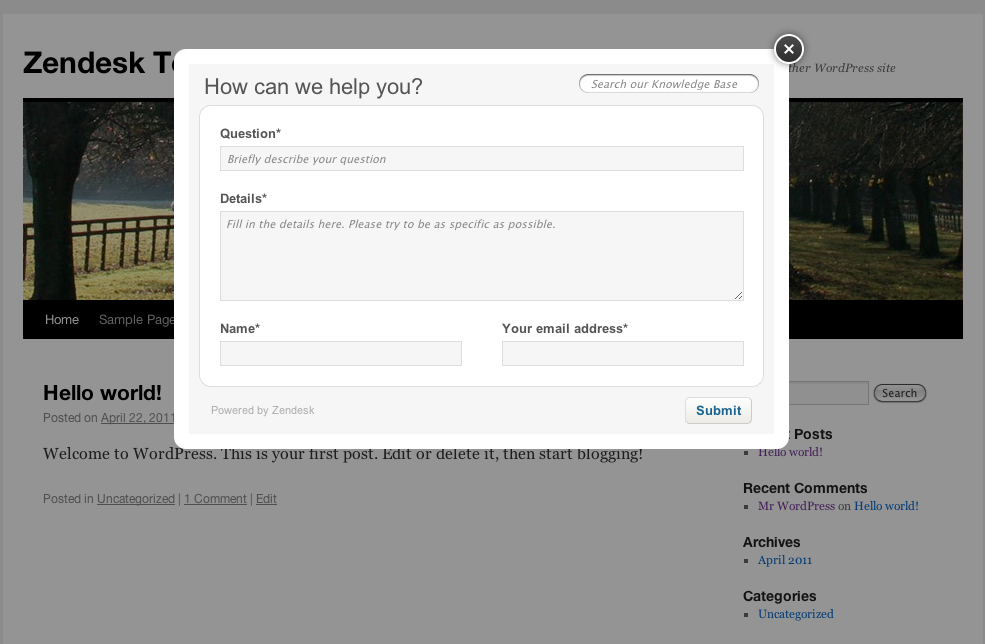
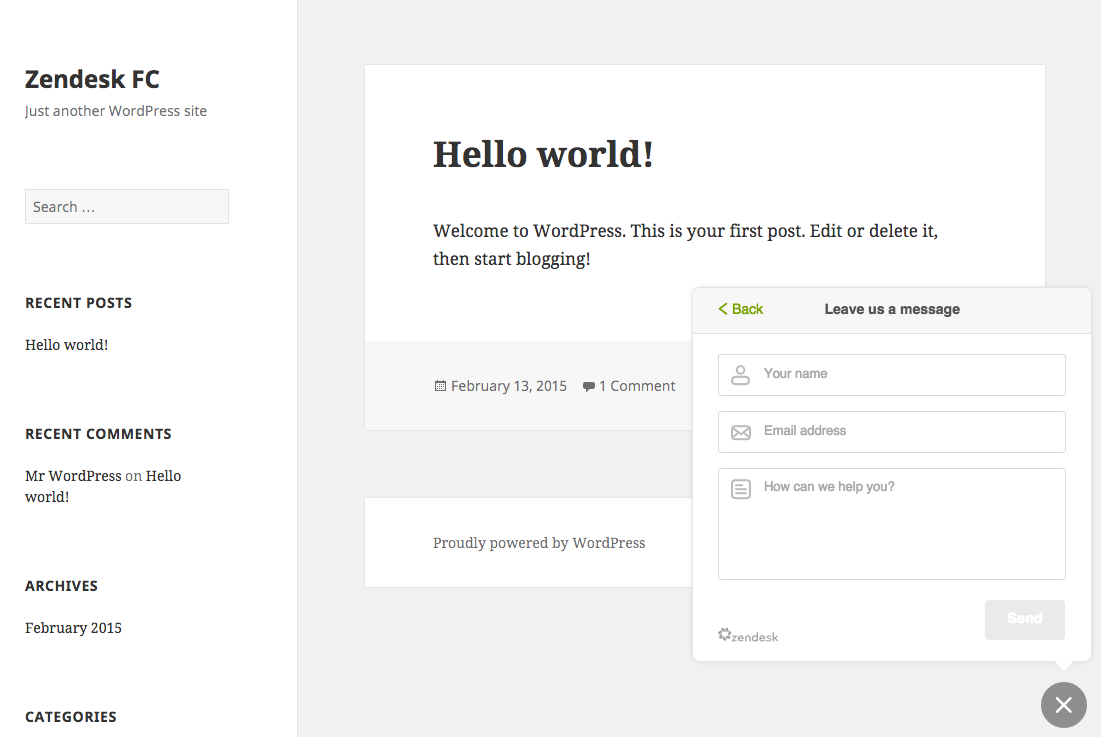
bumping to v1.6.0
git-svn-id: https://plugins.svn.wordpress.org/zendesk/trunk@1142716 b8457f37-d9ea-0310-8a92-e5e31aec5664

diff --git a/css/admin.css b/css/admin.css
@@ -3,7 +3,7 @@
  *
  * @subpackage Admin Dashboard Stylesheets
  * @author Konstantin Kovshenin
- * @version 1.5.2
+ * @version 1.6.0
  *
  * http://zendesk.com
  *

diff --git a/js/admin.js b/js/admin.js
@@ -3,7 +3,7 @@
  *
  * @subpackage Admin Dashboard Javascript
  * @author Konstantin Kovshenin
- * @version 1.5.2
+ * @version 1.6.0
  *
  * http://zendesk.com
  *

diff --git a/js/settings.js b/js/settings.js
@@ -3,7 +3,7 @@
  *
  * @subpackage Admin Settings Javascript
  * @author Konstantin Kovshenin
- * @version 1.5.2
+ * @version 1.6.0
  *
  * http://zendesk.com
  *

diff --git a/zendesk-support.php b/zendesk-support.php
@@ -4,7 +4,7 @@
  * Plugin URI: http://zendesk.com
  * Description: Zendesk Support for WordPress
  * Author: Konstantin Kovshenin
- * Version: 1.5.2
+ * Version: 1.6
  * Author URI: http://kovshenin.com
  *
  */
@@ -22,8 +22,8 @@ require_once( plugin_dir_path( __FILE__ ) . 'JWT.php' );
  * Zendesk Support Class
  *
  * This is the main plugin class, handles all the plugin options, WordPress
- * hooks and filters, as well as options validation. The Zendesk Dropbox
- * is fully defined in this class too.
+ * hooks and filters, as well as options validation. The Zendesk Web Widget
+ * and the Zendesk Feedback Tab are fully defined in this class too.
  *
  */
 class Zendesk_Support {
@@ -63,6 +63,11 @@ class Zendesk_Support {
     // Let's see if Dropbox is set to auto
     if ( isset( $this->settings['dropbox_display'] ) && $this->settings['dropbox_display'] == 'auto' )
       add_action( 'wp_footer', array( &$this, 'dropbox_code' ) );
+
+    // Let's see if the visibility of the Web Widget is set to auto
+    if ( isset( $this->settings['webwidget_display'] ) && $this->settings['webwidget_display'] == 'auto' ) {
+      add_action( 'wp_footer', array( &$this, 'webwidget_code' ) );
+    }
   }
 
   /*
@@ -82,6 +87,12 @@ class Zendesk_Support {
     $https = ( isset( $this->settings['ssl'] ) && $this->settings['ssl'] ) ? 'https' : 'http';
     $this->zendesk_url = $https . '://' . $this->settings['account'] . '.zendesk.com';
     $this->api = new Zendesk_API( $this->zendesk_url );
+
+    // Fill in the Web Widget code if it's empty, we know the account, and they
+    // haven't set the widget off
+    if ( !$this->settings['webwidget_code'] && $this->settings['account'] && $this->settings['webwidget_display'] != 'none' ) {
+      $this->_set_default_webwidget_code();
+    }
 
     // Zendesk Authentication Magic
     $this->zendesk_user = false;
@@ -117,6 +128,36 @@ class Zendesk_Support {
   }
 
   /*
+   * Set the default Web Widget code
+   *
+   * If users set their account setting we'll help them setting their Web Widget
+   * code snippet for them. Once we have the snippet we also set the widget
+   * visibility to auto.
+   * They can of course overwrite these settings on the settings page.
+   *
+   */
+  private function _set_default_webwidget_code() {
+    if ( isset($this->settings['account']) && $this->settings['account'] ) {
+      $subdomain = $this->settings['account'];
+      $this->settings['webwidget_code'] = <<<EOJS
+<!-- Start of Zendesk Widget script -->
+<script>/*<![CDATA[*/window.zEmbed||function(e,t){var n,o,d,i,s,a=[],r=document.createElement("iframe");window.zEmbed=function(){a.push(arguments)},window.zE=window.zE||window.zEmbed,r.src="javascript:false",r.title="",r.role="presentation",(r.frameElement||r).style.cssText="display: none",d=document.getElementsByTagName("script"),d=d[d.length-1],d.parentNode.insertBefore(r,d),i=r.contentWindow,s=i.document;try{o=s}catch(c){n=document.domain,r.src='javascript:var d=document.open();d.domain="'+n+'";void(0);',o=s}o.open()._l=function(){var o=this.createElement("script");n&&(this.domain=n),o.id="js-iframe-async",o.src=e,this.t=+new Date,this.zendeskHost=t,this.zEQueue=a,this.body.appendChild(o)},o.write('<body onload="document._l();">'),o.close()}("//assets.zendesk.com/embeddable_framework/main.js","{$subdomain}.zendesk.com");/*]]>*/</script>
+<!-- End of Zendesk Widget script -->
+
+EOJS;
+      // We have a snippet now, display it by default unless the Feedback Tab is being used
+      if( $this->settings['dropbox_display'] == 'none' ) {
+        $this->settings['webwidget_display'] = 'auto';
+      } else {
+        $this->settings['webwidget_display'] = 'none';
+      }
+
+      // Update the settings so these changes are permanent
+      $this->_update_settings();
+    }
+  }
+
+  /*
    * Load Settings
    *
    * Private function to load current settings from the database. Sets
@@ -128,6 +169,7 @@ class Zendesk_Support {
     $this->remote_auth_settings = get_option( 'zendesk-settings-remote-auth', false );
 
     $this->default_settings = array(
+      'ssl' => false,
       'version' => 1,
       'account' => '',
 
@@ -146,7 +188,9 @@ class Zendesk_Support {
 
       'dropbox_display' => 'none',
       'dropbox_code' => '',
-      'ssl' => false
+
+      'webwidget_display' => 'auto',
+      'webwidget_code' => ''
     );
 
     $this->default_remote_auth_settings = array(
@@ -183,7 +227,7 @@ class Zendesk_Support {
   /*
    * Admin Initialization
    *
-   * Register a bunch of sections and field for the Zendesk plugin
+   * Register a bunch of sections and fields for the Zendesk plugin
    * options. All the options are stored in the $this->settings
    * array which is kept under the 'zendesk-settings' key inside
    * the WordPress database.
@@ -233,10 +277,17 @@ class Zendesk_Support {
       add_settings_field( 'contact_form_details', __( 'Details Label', 'zendesk' ), array( &$this, '_settings_field_contact_form_details' ), 'zendesk-settings', 'contact_form' );
       add_settings_field( 'contact_form_submit', __( 'Submit Button Label', 'zendesk' ), array( &$this, '_settings_field_contact_form_submit' ), 'zendesk-settings', 'contact_form' );
 
-      // Dropbox Settings
-      add_settings_section( 'dropbox', __( 'Dropbox Settings', 'zendesk' ), array( &$this, '_settings_section_dropbox' ), 'zendesk-settings' );
-      add_settings_field( 'dropbox_display', __( 'Display', 'zendesk' ), array( &$this, '_settings_field_dropbox_display' ), 'zendesk-settings', 'dropbox' );
-      add_settings_field( 'dropbox_code', __( 'Dropbox Code', 'zendesk' ), array( &$this, '_settings_field_dropbox_code' ), 'zendesk-settings', 'dropbox' );
+      // Dropbox Settings - Only appears if the Dropbox is active, or if the web widget is off and there is a Feedback Tab snipped in the settings
+      if( ( $this->settings['dropbox_display'] == 'auto' || $this->settings['dropbox_display'] == 'manual' ) || ( $this->settings['webwidget_display'] == 'none' && $this->settings['dropbox_code'] !== '' ) ) {
+        add_settings_section( 'dropbox', __( 'Dropbox Settings', 'zendesk' ), array( &$this, '_settings_section_dropbox' ), 'zendesk-settings' );
+        add_settings_field( 'dropbox_display', __( 'Display', 'zendesk' ), array( &$this, '_settings_field_dropbox_display' ), 'zendesk-settings', 'dropbox' );
+        add_settings_field( 'dropbox_code', __( 'Dropbox Code', 'zendesk' ), array( &$this, '_settings_field_dropbox_code' ), 'zendesk-settings', 'dropbox' );
+      }
+
+      // Web Widget Settings
+      add_settings_section( 'webwidget', __( 'Web Widget Settings', 'zendesk' ), array( &$this, '_settings_section_webwidget' ), 'zendesk-settings' );
+      add_settings_field( 'webwidget_display', __( 'Display', 'zendesk' ), array( &$this, '_settings_field_webwidget_display' ), 'zendesk-settings', 'webwidget' );
+      add_settings_field( 'webwidget_code', __( 'Web Widget Code', 'zendesk' ), array( &$this, '_settings_field_webwidget_code' ), 'zendesk-settings', 'webwidget' );
 
       // Remote Authentication Settings
       register_setting( 'zendesk-settings-remote-auth', 'zendesk-settings-remote-auth', array( &$this, '_validate_remote_auth_settings' ) );
@@ -282,7 +333,7 @@ class Zendesk_Support {
    * Admin Styles & Scripts
    *
    * This method is fired for any possible admin page, which is why
-   * we includet he main admin.js scripts and the colorbox to use
+   * we include the main admin.js scripts and the colorbox to use
    * for tickets widgets, and the comment to ticket forms.
    *
    */
@@ -321,6 +372,21 @@ class Zendesk_Support {
    */
   public function dropbox_code() {
     echo $this->settings['dropbox_code'];
+  }
+
+  /*
+   * Web Widget Code
+   *
+   * Displays the javascript code for the Zendesk Web Widget. The options
+   * in the $this->settings array are used for certain Zenbox options.
+   * Depending on the options chosen, this fire in wp_footer or via a
+   * custom template tag: the_zendesk_webwidget()
+   *
+   */
+  public function webwidget_code() {
+    if ( isset($this->settings['webwidget_code']) && $this->settings['webwidget_code'] ) {
+      echo $this->settings['webwidget_code'];
+    }
   }
 
   /*
@@ -421,11 +487,19 @@ class Zendesk_Support {
       $settings['contact_form_anonymous'] = false;
 
 
-    // Nuke login credentials if account has changed.
+    // Nuke login credentials and web widget snippet if account has changed.
     if ( $settings['account'] !== $this->settings['account'] ) {
       // Running a direct SQL query is *way* faster than meta querying users one by one.
       global $wpdb;
       $wpdb->query( "DELETE FROM $wpdb->usermeta WHERE meta_key = 'zendesk_user_options';" );
+
+      // Clear the web widget code so it gets generated again using the new account
+      $settings['webwidget_code'] = '';
+    }
+
+    // If the Web Widget has just been switched on, hide the Feedback Tab
+    if( $settings['webwidget_display'] != 'none' && $this->settings['webwidget_display'] == 'none' ) {
+      $settings['dropbox_display'] = 'none';
     }
 
     // Merge the submitted settings with the defaults. Second
@@ -1830,7 +1904,7 @@ class Zendesk_Support {
     <select name="zendesk-settings[dropbox_display]" id="zendesk_dropbox_display">
       <option value="none" <?php selected( $this->settings['dropbox_display'] == 'none' ); ?> ><?php _e( 'Do not display the Zendesk dropbox anywhere', 'zendesk' ); ?></option>
       <option value="auto" <?php selected( $this->settings['dropbox_display'] == 'auto' ); ?> ><?php _e( 'Display the Zendesk dropbox on all posts and pages', 'zendesk' ); ?></option>
-      <option value="manual" <?php selected( $this->settings['dropbox_display'] == 'manual' ); ?> ><?php _e( 'I will decide where the Zendesk dropbox displays using a template tag' ); ?></option>
+      <option value="manual" <?php selected( $this->settings['dropbox_display'] == 'manual' ); ?> ><?php _e( 'I will decide where the Zendesk dropbox displays using a template tag', 'zendesk' ); ?></option>
     </select>
 
   <?php
@@ -1848,6 +1922,55 @@ class Zendesk_Support {
   ?>
     <span class="description float-left"><strong><?php printf( __( 'Obtain your Dropbox code from the %s in your Zendesk.', 'zendesk' ), sprintf( '<a target="_blank" href="' . trailingslashit( $this->zendesk_url ) . 'account/dropboxes/new">%s</a>', __( 'Dropbox Configuration page', 'zendesk' ) ) ); ?></strong></span><br />
     <textarea id="zendesk_dropbox_code" cols="60" rows="5" name="zendesk-settings[dropbox_code]"><?php echo esc_textarea( $this->settings['dropbox_code'] ); ?></textarea><br />
+  <?php
+  }
+
+  /*
+   * Settings: Web Widget Section
+   *
+   */
+  public function _settings_section_webwidget() {
+    _e( 'The Zendesk Web Widget makes it easy for your customers to get the help they need, wherever they are on your website, with one click or tap.', 'zendesk' );
+  ?>
+    <br />
+    <?php printf( __( 'Activate your widget and access settings on the %s in your Zendesk.', 'zendesk' ), sprintf( '<a target="_blank" href="' . trailingslashit( $this->zendesk_url ) . 'agent/admin/widget">%s</a>', __( 'Widget Configuration page', 'zendesk' ) ) ); ?>
+    <br />
+    <strong> <?php _e( 'Note:', 'zendesk' ); ?> </strong>
+  <?php
+    _e( 'You\'ll need to visit this page initially to set up your widget.' );
+  }
+
+  /*
+   * Settings: Web Widget Display
+   *
+   * Boolean value which turns on or off the Zendesk Web Widget. This
+   * value is checked when registering Web Widget scripts, styles and
+   * code. Accessed from $this->settings['webwidget_display']
+   *
+   */
+  public function _settings_field_webwidget_display() {
+  ?>
+    <select name="zendesk-settings[webwidget_display]" id="zendesk_webwidget_display">
+      <option value="none" <?php selected( $this->settings['webwidget_display'] == 'none' ); ?> ><?php _e( 'Do not display the Zendesk Widget anywhere', 'zendesk' ); ?></option>
+      <option value="auto" <?php selected( $this->settings['webwidget_display'] == 'auto' ); ?> ><?php _e( 'Display the Zendesk Widget on all posts and pages', 'zendesk' ); ?></option>
+      <option value="manual" <?php selected( $this->settings['webwidget_display'] == 'manual' ); ?> ><?php _e( 'I will decide where the Zendesk Widget displays using a template tag', 'zendesk' ); ?></option>
+    </select>
+
+  <?php
+  }
+
+  /*
+   * Settings: Web Widget Code
+   *
+   * A text area to stick in the web widget code which is printed
+   * during the wp_footer action in the theme if the webwidget display
+   * setting is set to true. Access via $this->settings['webwidget_code']
+   *
+   */
+  public function _settings_field_webwidget_code() {
+  ?>
+    <span class="description float-left"><strong><?php _e( 'Advanced users only (no need to modify code below)', 'zendesk' ); ?></strong></span><br />
+    <textarea id="zendesk_webwidget_code" cols="60" rows="5" name="zendesk-settings[webwidget_code]"><?php echo esc_textarea( $this->settings['webwidget_code'] ); ?></textarea><br />
   <?php
   }
 
@@ -2199,6 +2322,18 @@ class Zendesk_Support {
     if ( isset( $this->settings['dropbox_display'] ) && $this->settings['dropbox_display'] == 'manual' )
       return $this->dropbox_code();
   }
+
+  /*
+   * Web Widget template tag
+   *
+   * Definition is outside of this class, logic is inside.
+   *
+   */
+  public function the_zendesk_webwidget() {
+    if ( isset( $this->settings['webwidget_display'] ) && $this->settings['webwidget_display'] == 'manual' )
+      return $this->webwidget_code();
+  }
+
 };
 
 // Register the Zendesk_Support class initialization during WordPress' init action. Globally available through $zendesk_support global.
@@ -2221,4 +2356,22 @@ function the_zendesk_dropbox() {
   // initialized before calling it's method.
   if ( $zendesk_support )
     $zendesk_support->the_zendesk_dropbox();
+}
+
+/*
+ * Web Widget template tag
+ *
+ * This is the template tag used by those users who only want the web widget
+ * displayed on certain pages.
+ *
+ * @global $zendesk_support
+ *
+ */
+function the_zendesk_webwidget() {
+  global $zendesk_support;
+
+  // Simply call the method inside the object. Make sure object is
+  // initialized before calling it's method.
+  if ( $zendesk_support )
+    $zendesk_support->the_zendesk_webwidget();
 }

diff --git a/zendesk-compatibility.php b/zendesk-compatibility.php
@@ -6,7 +6,7 @@
  * but not defined in previous WordPress versions.
  *
  * @author Konstantin Kovshenin
- * @version 1.5.2
+ * @version 1.6.0
  *
  */
 

diff --git a/JWT.php b/JWT.php
@@ -208,3 +208,4 @@ class JWT
     }
 
 }
+
